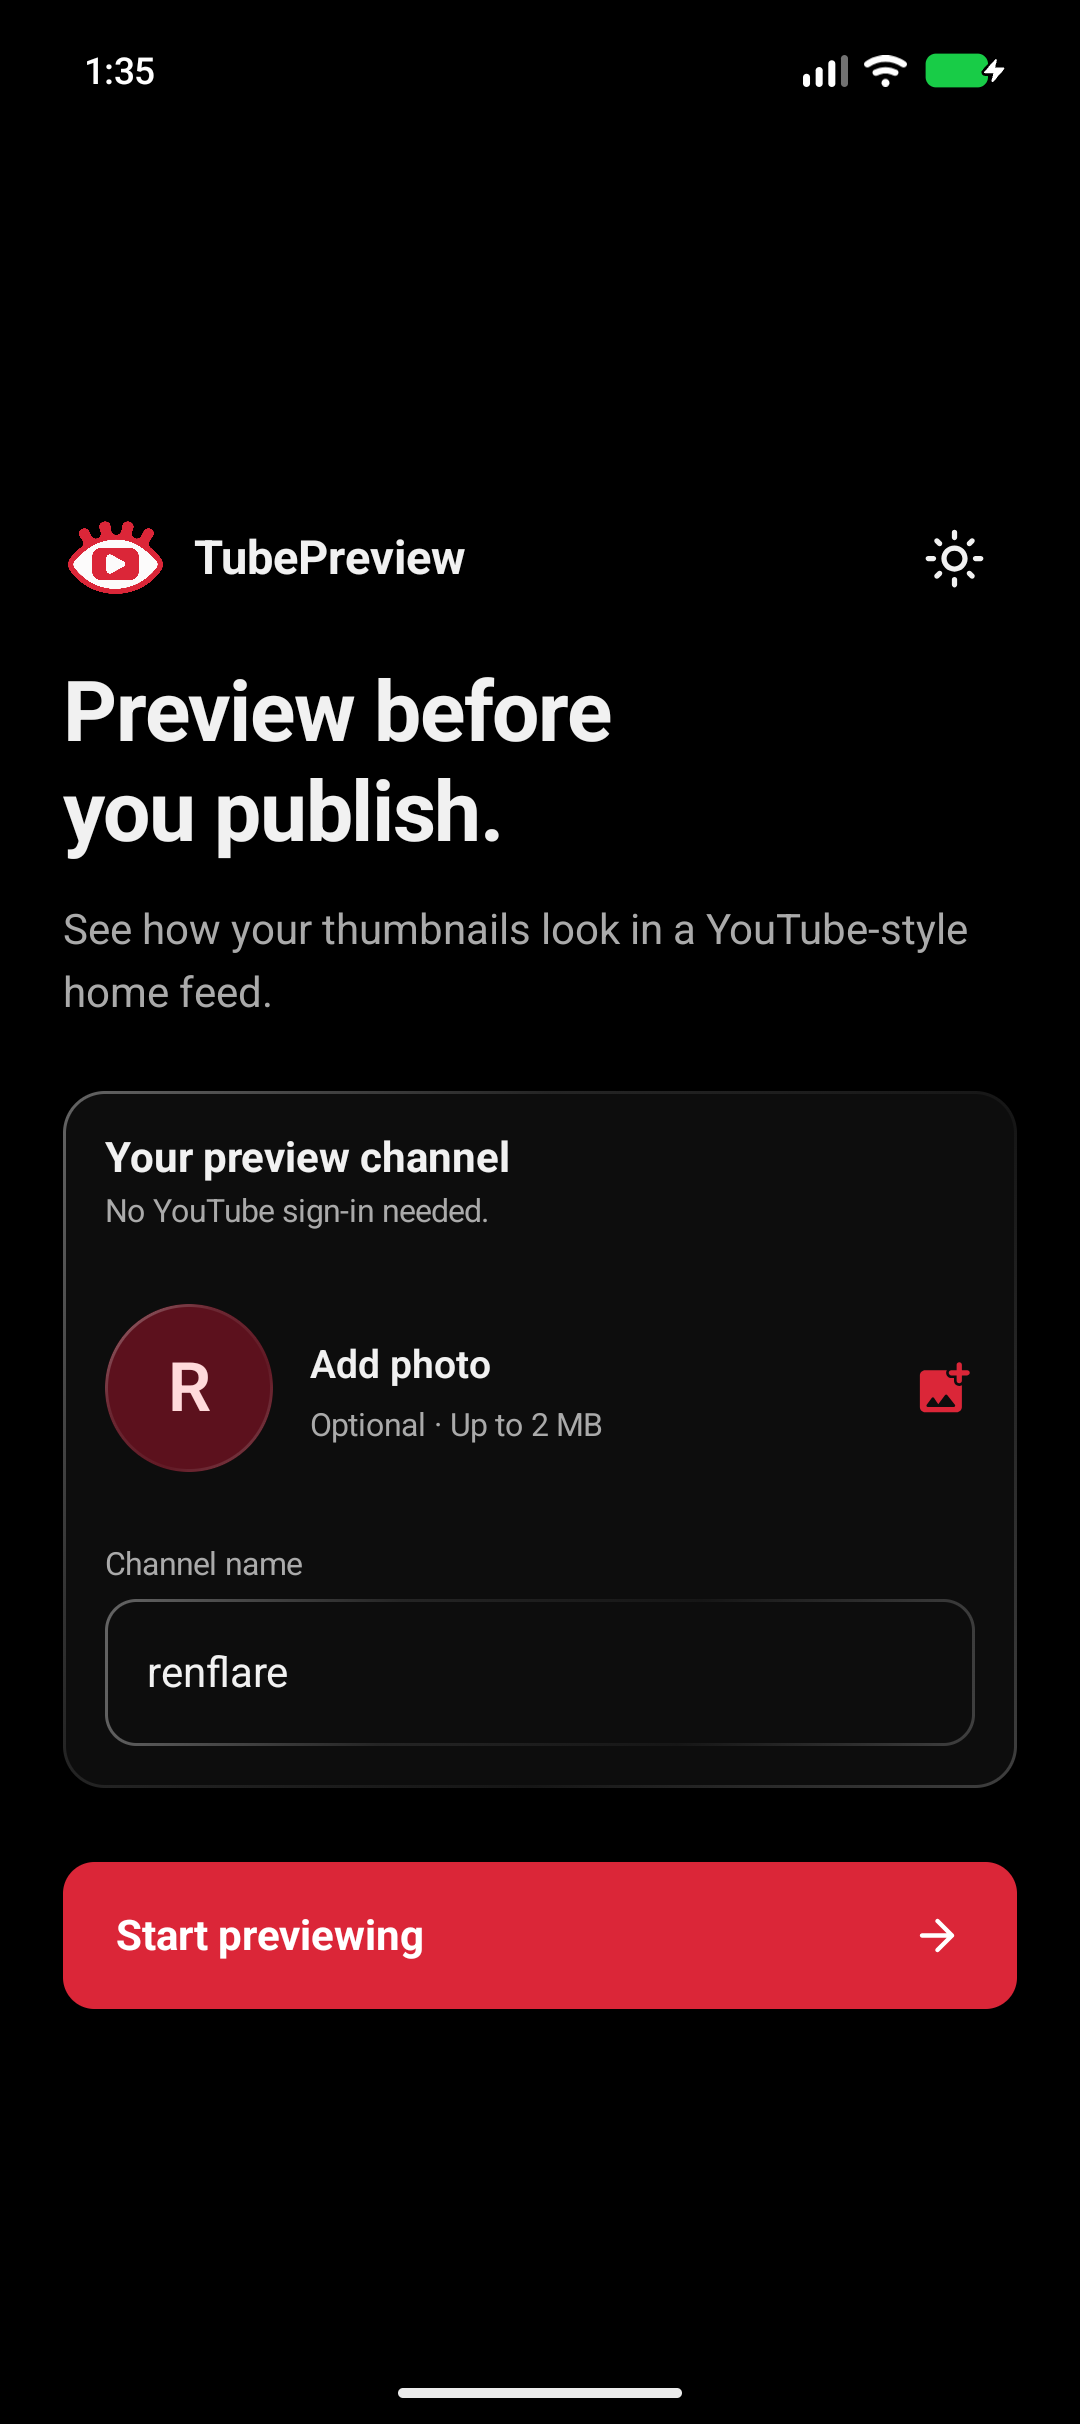
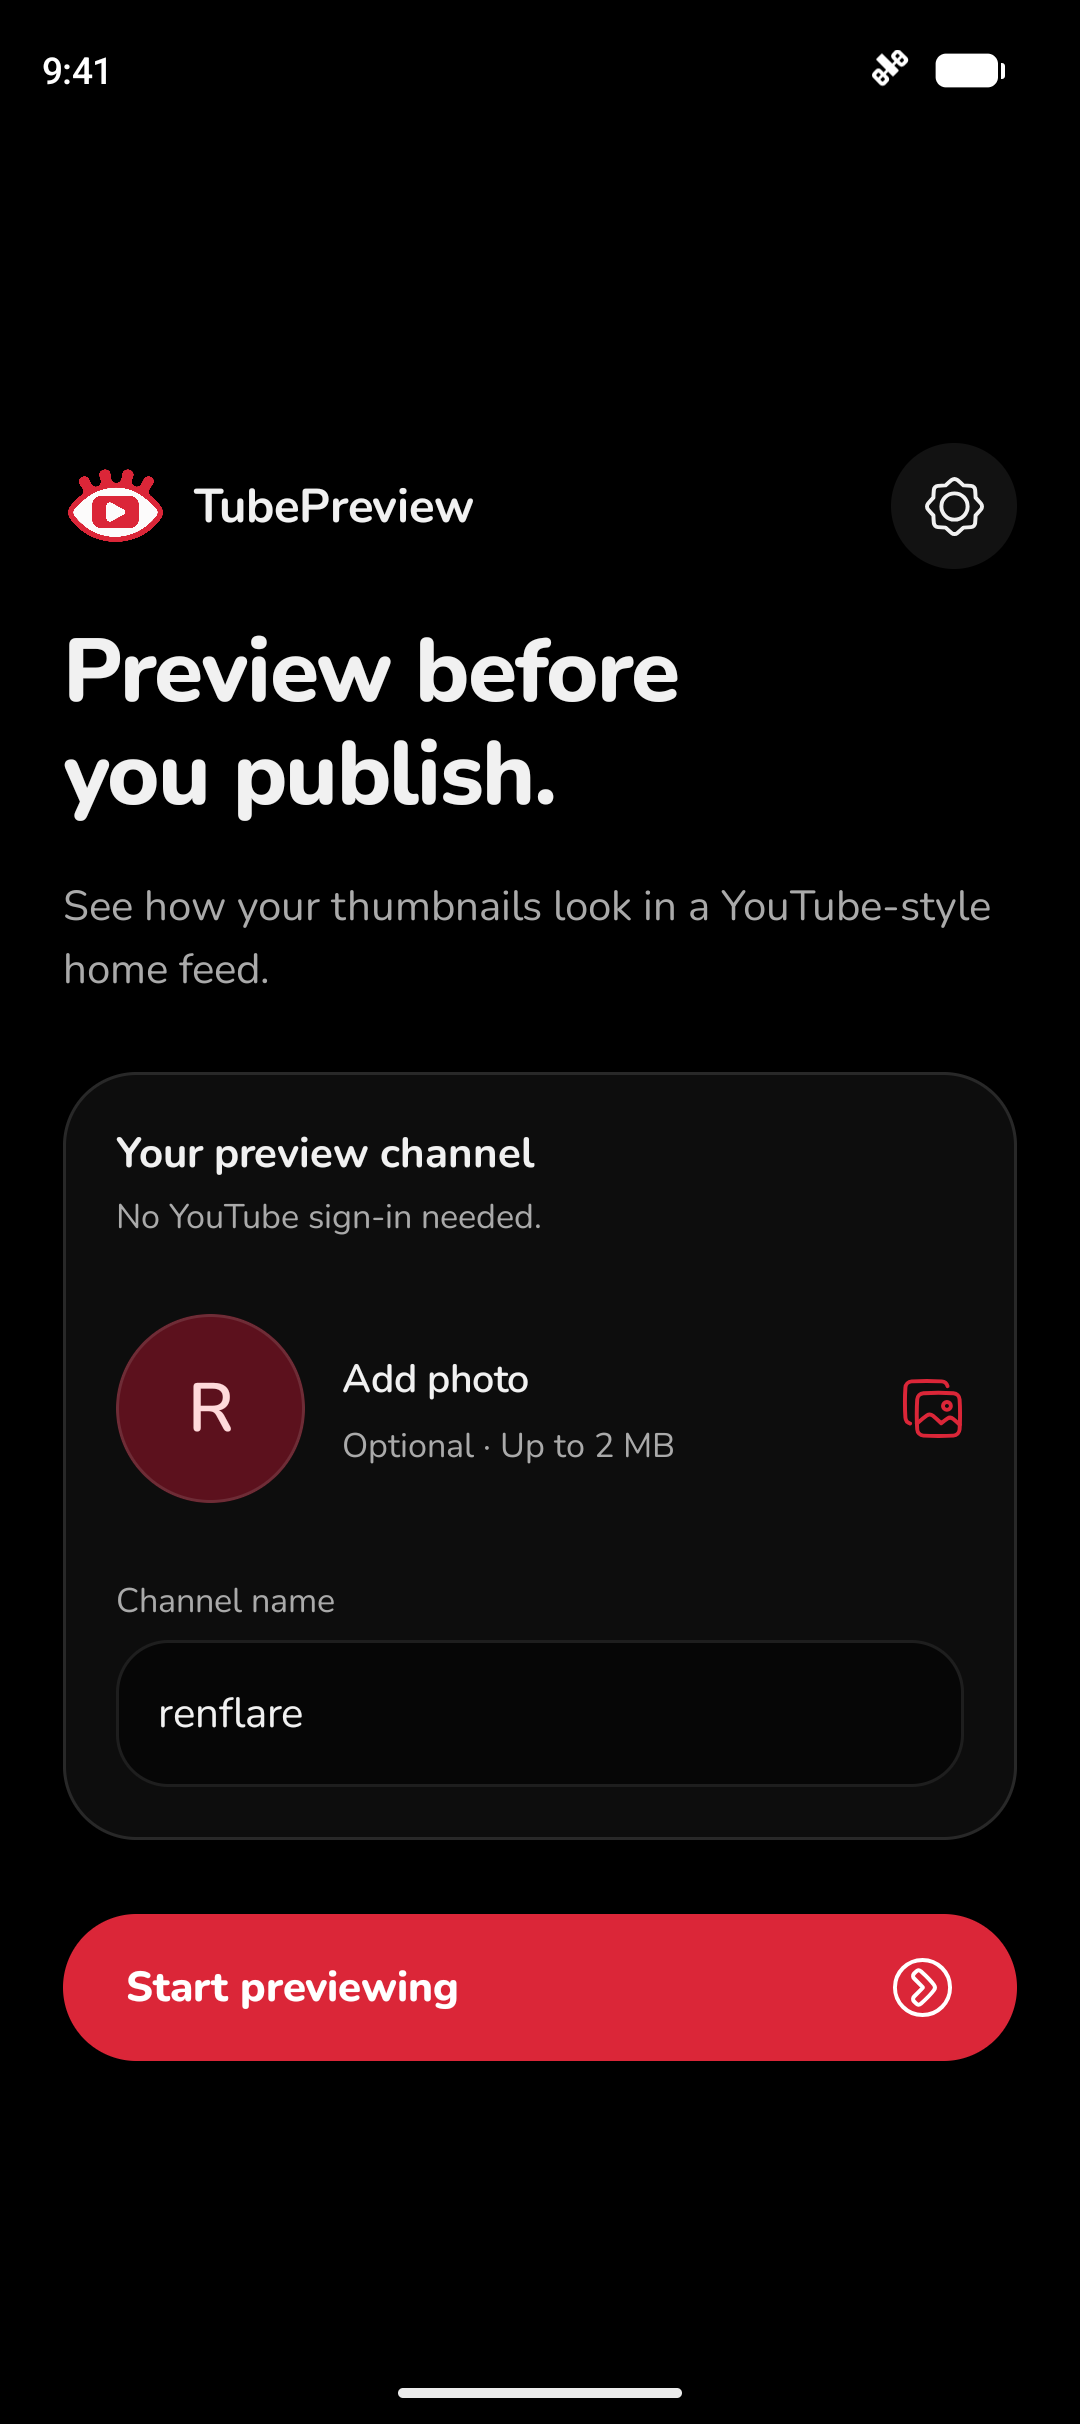
Refresh preview screenshots and setup design

diff --git a/THIRD_PARTY_NOTICES.md b/THIRD_PARTY_NOTICES.md
@@ -1,0 +1,20 @@
+# Third-party assets
+
+TubePreview uses [Plump Line Free](https://www.streamlinehq.com/icons/plump-line-free)
+and [Plump Solid Free](https://www.streamlinehq.com/icons/plump-solid-free) icons
+by [Streamline](https://streamlinehq.com), licensed under
+[Creative Commons Attribution 4.0 International](https://creativecommons.org/licenses/by/4.0/).
+
+Selected icons were converted to Android vector drawables, with theme tinting and
+directional mirroring. [Original designs](https://github.com/webalys-hq/streamline-vectors/tree/main/plump).
+
+[Nunito](https://fonts.google.com/specimen/Nunito) is bundled unmodified under the
+[SIL Open Font License 1.1](https://openfontlicense.org/). Copyright 2014 The Nunito
+Project Authors. The full notice and license are included in the app and can be
+read from its customization screen.
+
+The preview feed also uses Material Icons provided by AndroidX Compose Material,
+licensed under [Apache License 2.0](https://github.com/androidx/androidx/blob/androidx-main/LICENSE.txt).
+
+These licenses apply to the third-party assets only. They do not grant a license
+to the TubePreview application source or branding.

diff --git a/README.md b/README.md
@@ -59,4 +59,8 @@ reports and feature requests. Remove private content from screenshots and logs.
 This repository hosts downloads and release documentation. The application source
 is maintained privately.
 
+Icons: [Streamline](https://streamlinehq.com) and [Material Icons](https://fonts.google.com/icons).
+Setup typography: [Nunito](https://fonts.google.com/specimen/Nunito).
+See [third-party notices](THIRD_PARTY_NOTICES.md) for asset licenses.
+
 Made with ❤ by [**renflare**](https://github.com/notrenflare).
